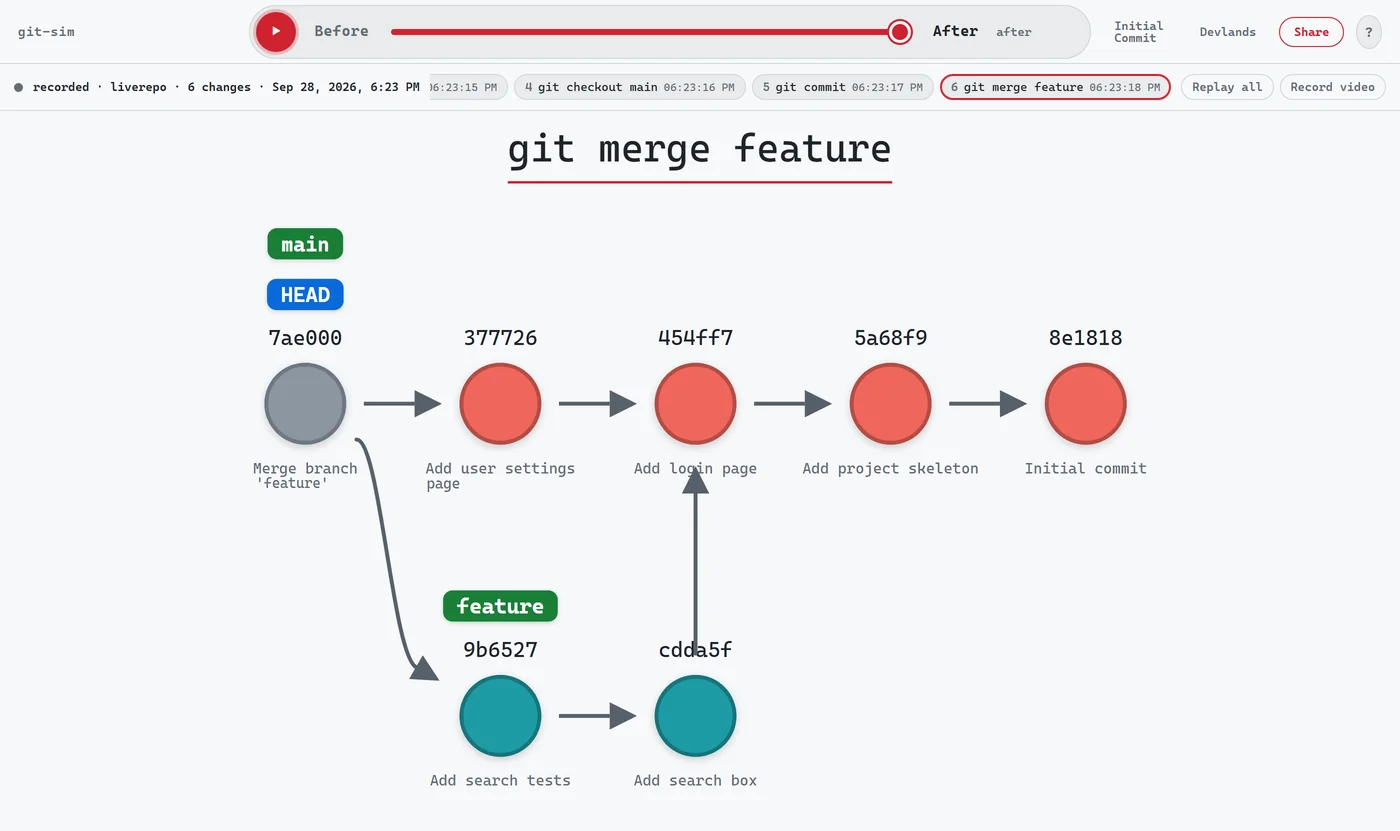
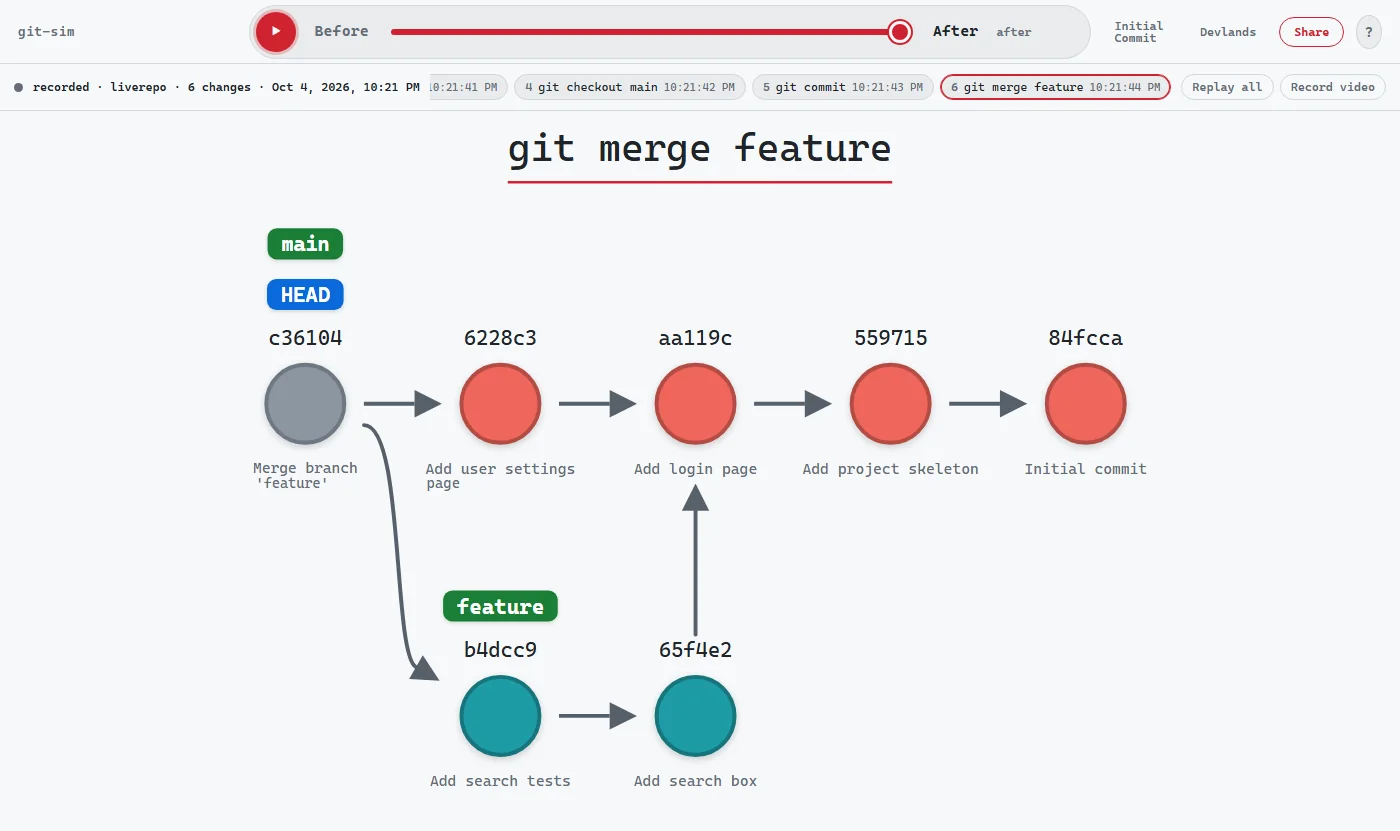
Redraw the live mode screenshot, and write the tools page's light demo
The README's live picture is recorded again with the fitted arrows: the
merge's vertical arrow no longer runs through a commit id and message.

readme_graphs.py --site also writes git-sim-demo-light.svg, the light
twin of the tools page's rebase graph, which no script produced before.

diff --git a/scripts/readme_graphs.py b/scripts/readme_graphs.py
@@ -145,8 +145,9 @@ def main():
             dark = render(args, cwd, dark=True) if site_dirs else None
             for d in site_dirs:
                 shutil.copy(dark, os.path.join(d, f"git-sim-demo-{slug}.svg"))
-                if slug == "rebase":  # the tool page's default graph
+                if slug == "rebase":  # the tool page's default graph, and its light twin
                     shutil.copy(dark, os.path.join(d, "git-sim-demo.svg"))
+                    shutil.copy(light, os.path.join(d, "git-sim-demo-light.svg"))
             if slug == "remote":
                 subprocess.run(["git", "-C", cwd, "remote", "set-url", "origin", origin("orders")], check=True)
             print(f"ok  {slug:<15} {' '.join(args)}  ({note})")
